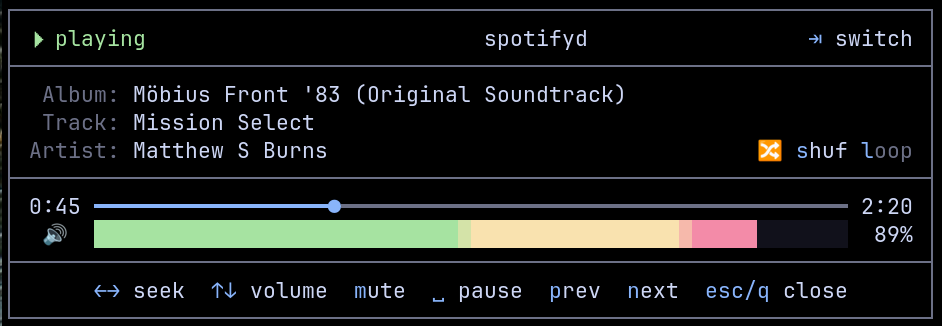
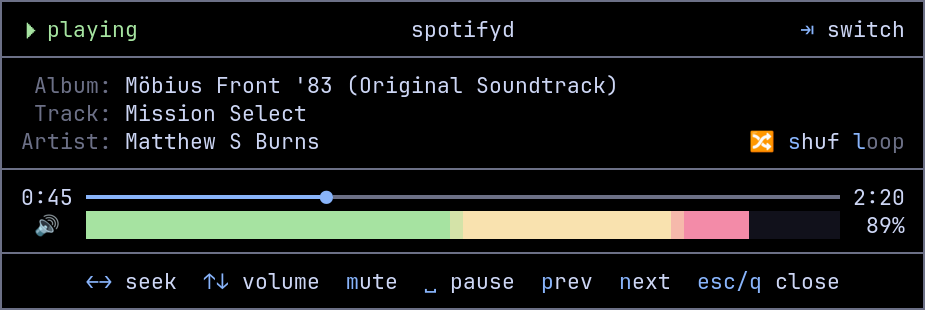
update screenshot

Changed region(s): [[0.0, 0.0, 1.0, 1.0], [0.6659, 0.871, 0.9081, 0.929]]

diff --git a/test_display.py b/test_display.py
@@ -15,8 +15,8 @@ print("1234567890" * 10)
 tpc.s.state.position = 45
 tpc.s.state.length = 140
 tpc.s.state.volume = 89
-tpc.s.state.player = "spotifyd旅ロ京青利セムレ弱改フヨス波府かばぼ意送でぼ調掲察たス日西重ケアナ住橋ユムミク順待ふかんぼ人奨貯鏡すびそ。"
-# tpc.s.state.player = "spotifyd"
+# tpc.s.state.player = "spotifyd旅ロ京青利セムレ弱改フヨス波府かばぼ意送でぼ調掲察たス日西重ケアナ住橋ユムミク順待ふかんぼ人奨貯鏡すびそ。"
+tpc.s.state.player = "spotifyd"
 # tpc.s.state.status = "Paused"
 tpc.s.state.status = "Playing"
 # tpc.s.state.status = "Recording"
